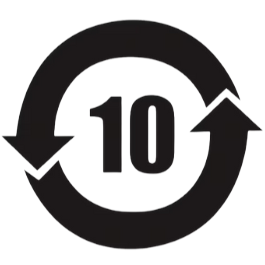
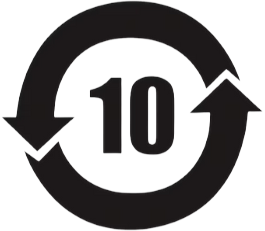
feature/about - certifications section: images optimized, desktop and mobile views implemented.

diff --git a/src/screens/about/utils.tsx b/src/screens/about/utils.tsx
@@ -1,8 +1,8 @@
 import LocalizationKey from "@/i18n/key";
-import { CertImage, SumStep } from "./types";
+import { CertImage, CertImageMobile, SumStep } from "./types";
 import Image1 from "@/assets/about/certifications/1.1.png";
 import Image2 from "@/assets/about/certifications/2.1.png";
-import Image3 from "@/assets/about/certifications/3.1.png";
+import Image3 from "@/assets/about/certifications/3.2.png";
 import Image4 from "@/assets/about/certifications/4.1.png";
 import Image5 from "@/assets/about/certifications/5.1.png";
 import Image6 from "@/assets/about/certifications/6.1.png";
@@ -42,37 +42,78 @@ export const SumVal: SumStep[] = [
 export const Certs: CertImage[] = [ 
     {
         imageName: Image1,
-        imageHeight: "70px",
-        imageWidth: "70px"
+        imageHeight: "130px",
+        imageWidth: "130px"
     }, 
     {
         imageName: Image2,
-        imageHeight: "114px",
-        imageWidth: "114px"
+        imageHeight: "145px",
+        imageWidth: "145px"
     }, 
     {
         imageName: Image3,
-        imageHeight: "95px",
-        imageWidth: "94.5px"
+        imageHeight: "155px",
+        imageWidth: "155px"
     },
     {
         imageName: Image4,
-        imageHeight: "123.5px",
-        imageWidth: "123.5px"
+        imageHeight: "125px",
+        imageWidth: "125px"
     },
     {
         imageName: Image5,
-        imageHeight: "143px",
-        imageWidth: "143px"
+        imageHeight: "146px",
+        imageWidth: "146px"
     },
     {
         imageName: Image6,
-        imageHeight: "91px",
-        imageWidth: "91px"
+        imageHeight: "144px",
+        imageWidth: "144px"
     },
     {
         imageName: Image7,
-        imageHeight: "101px",
-        imageWidth: "101px"
+        imageHeight: "221px",
+        imageWidth: "221px"
     }
+]
+
+export const CertsMobileTopRow: CertImageMobile [] = [
+    {
+        imageName: Image1,
+        imageHeight: "50px",
+        imageWidth: "50px"
+    }, 
+    {
+        imageName: Image2,
+        imageHeight: "50px",
+        imageWidth: "60px"
+    }, 
+    {
+        imageName: Image3,
+        imageHeight: "50px",
+        imageWidth: "60px"
+    },
+    {
+        imageName: Image4,
+        imageHeight: "50px",
+        imageWidth: "50px"
+    },
+]
+
+export const CertsMobileBottomRow: CertImageMobile [] = [
+    {
+        imageName: Image5,
+        imageHeight: "50px",
+        imageWidth: "50px"
+    }, 
+    {
+        imageName: Image6,
+        imageHeight: "50px",
+        imageWidth: "50px"
+    }, 
+    {
+        imageName: Image7,
+        imageHeight: "100px",
+        imageWidth: "100px"
+    },
 ]

diff --git a/src/screens/about/AboutComponent/AboutComponent.tsx b/src/screens/about/AboutComponent/AboutComponent.tsx
@@ -9,7 +9,7 @@ import { SectionTitleProps, SectionContentProps } from "./types";
 import { PageContainer } from "@/components";
 import SummaryCard from "../component/SumCard";
 import bgSide from "@/assets/modern-man-using-smartphone-city-2.png";
-import { Certs, SumVal } from "../utils";
+import { Certs, CertsMobileBottomRow, CertsMobileTopRow, SumVal } from "../utils";
 import LocalizationKey from "@/i18n/key";
 import { useTranslation } from "react-i18next";
 import { cn } from "@/lib/utils";
@@ -173,14 +173,37 @@ const AboutComponent = (): ReactElement => {
           ))}
         </PageContainer>
 
-        <PageContainer className="flex flex-row justify-center overflow-hidden w-full h-full">
+        <PageContainer className="hidden lg:flex lg:flex-row justify-center overflow-hidden gap-5">
           {Certs.map((data,index) => (
+              <div>
+                <img
+                  src={data.imageName}
+                  key={index}
+                  width={data.imageWidth}
+                  height={data.imageHeight} />
+              </div>
+          ))}
+        </PageContainer>
+
+        <PageContainer className="flex flex-col lg:hidden items-center">
+          <div className="flex gap-3">
+            {CertsMobileTopRow.map((data, index) => (
               <img
                 src={data.imageName}
                 key={index}
                 width={data.imageWidth}
                 height={data.imageHeight} />
-          ))}
+            ))}
+          </div>
+          <div className="flex gap-5 relative top-5">
+            {CertsMobileBottomRow.map((data, index) => (
+              <img
+                src={data.imageName}
+                key={index}
+                width={data.imageWidth}
+                height={data.imageHeight} />
+            ))}
+          </div>
         </PageContainer>
       </div>
     </>

diff --git a/src/screens/home/HeroSection/HeroSection.tsx b/src/screens/home/HeroSection/HeroSection.tsx
@@ -31,7 +31,7 @@ const HeroSection = () => {
 
           <Label
             variant={"default"}
-            className="font-eastman text-3xl text-white md:text-6xl lg:text-5xl"
+            className="font-eastman text-3xl text-white md:text-6xl lg:text-5xl italic"
           >
             Stay
             <span className="ml-3 bg-gradient-to-r from-[#44D62C] via-[#54575A] to-[#fff] bg-clip-text text-transparent">

diff --git a/src/i18n/locales/index.ts b/src/i18n/locales/index.ts
@@ -1,14 +1,10 @@
 import enTranslation from "./en.json";
-import phTranslation from "./ph.json";
 import chtTranslation from "./cht.json";
 import chsTranslation from "./chs.json";
 
 export default {
   en: {
     translation: enTranslation,
-  },
-  ph: {
-    translation: phTranslation,
   },
   cht: {
     translation: chtTranslation,

diff --git a/src/components/nav-bar/utils.tsx b/src/components/nav-bar/utils.tsx
@@ -9,11 +9,6 @@ export const language = [
     label: "En",
   },
   {
-    id: "ph",
-    icons: "ic_ph_flag",
-    label: "Ph",
-  },
-  {
     id: "cht",
     icons: "ic_cht_flag",
     label: "Ch(Traditional)",

diff --git a/src/screens/about/types.ts b/src/screens/about/types.ts
@@ -15,3 +15,9 @@ export interface CertImage {
   imageHeight: string;
   imageWidth: string;
 }
+
+export interface CertImageMobile {
+  imageName: string;
+  imageHeight: string;
+  imageWidth: string;
+}
